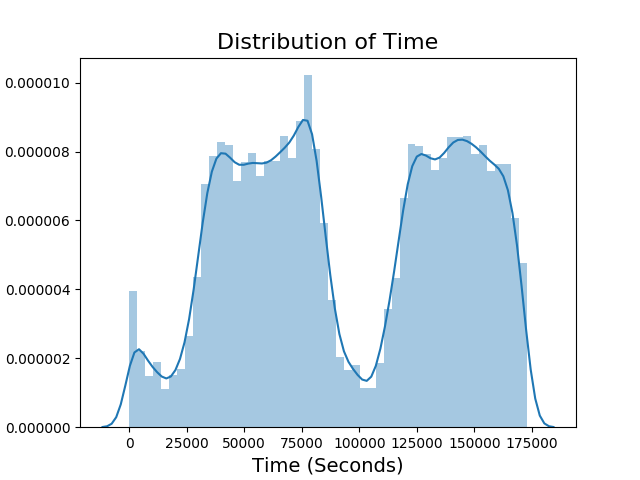
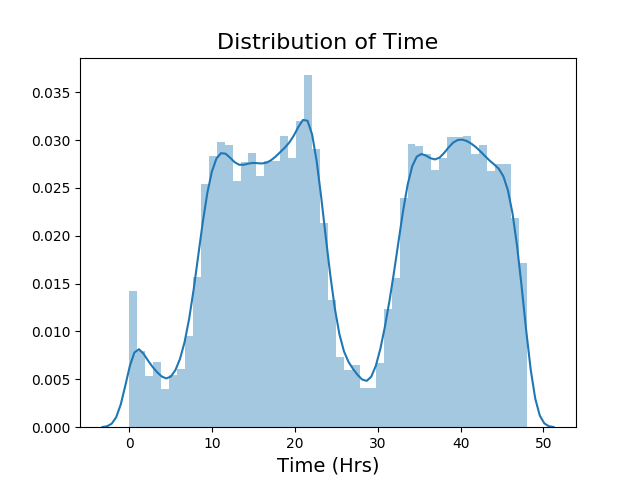
Added comments to file

diff --git a/src/data_visualizer.py b/src/data_visualizer.py
@@ -11,7 +11,7 @@ A program prints and plots different properties of the datasets and process it
 
 """
 
-
+## Getting and reading csv-data files into a pandas dataframe
 path = os.path.dirname(os.path.realpath(__file__))
 file1 = path + "/../data/creditcard_part1.csv"
 file2 = path + "/../data/creditcard_part2.csv"
@@ -20,30 +20,30 @@ df1 = pd.read_csv(file1)
 df2 = pd.read_csv(file2)
 df = pd.concat((df1, df2), ignore_index=True)
 
+## Printing the indices and features
 print(f"Indices: {df.index}")
 print(f"Header: {df.columns.values}\n")
 
+## Printing info about the dataset
 print(df.info(),"\n")
 
+## Looking at the unscaled features Time and Amount
 pd.set_option("precision", 3)
 print( f" {df.loc[:, ['Time', 'Amount']].describe()}\n" )
 
-### Amount has an average credit card transaction around 88 dollars
-### And the biggest transaction of 25691.160 dollarsssssss........
-"""
+## Distribution plot of the Amount data
 sb.distplot(df["Amount"])
 plt.title("Distribution of Amount", size=16)
 plt.xlabel("Amount", size=14)
 plt.show()
 
-
-sb.distplot(df["Time"])
+## Distribution plot of the Time data
+sb.distplot(df["Time"]/(60*60))
 plt.title("Distribution of Time", size=16)
-plt.xlabel("Time (Seconds)", size=14)
+plt.xlabel("Time (Hrs)", size=14)
 plt.show()
-"""
 
-
+## Looking at the class balances
 class_counts = df.Class.value_counts()
 num_fraudulent = class_counts[1]
 num_non_fraudulent = class_counts[0]
@@ -51,54 +51,55 @@ print(f"Fraudulent: {num_fraudulent}")
 print(f"Non-Fraudulent: {num_non_fraudulent}")
 print(f"Ratio: {(num_fraudulent/num_non_fraudulent)*100:.3f}%\n")
 
+## Plotting the class imbalance
 plt.bar(class_counts.index, [num_non_fraudulent, num_fraudulent])
 plt.xticks(class_counts.index, ('Non-fraudulent','Fraudulent'))
 plt.title("Non-Fraudulent & Fraudulent transactions total", size=16)
 plt.ylabel("Amount", size=14)
 plt.show()
 
-
+## Plotting the correlation matrix. (Dataset is already PCA'd)
 sb.heatmap( data=df.corr(), cmap="viridis", annot=False)
 plt.show()
 
-
 ## There are no categories in the dataset, so no need to do one-hot encoding.
+
+## Splitting the dataset into design matrix X and targets y
 X = df.loc[:, df.columns != 'Class'].values
 y = df.loc[:, df.columns == 'Class'].values.ravel()
 
 
-#### StandardScaler is more useful for classification, and Normalizer is more useful for regression.
+## Scaling the data (Most for Time and Amount)
 standard_scaler = StandardScaler()
 X = standard_scaler.fit_transform(X)
 
+
+## Randomized undersampling method
 indices_nonfraud = np.where(y==0)[0]
 indices_fraud = np.where(y==1)[0]
-
 np.random.shuffle(indices_nonfraud)
 indices_nonfraud_under = indices_nonfraud[:num_fraudulent]
 indices_under = np.concatenate( (indices_fraud, indices_nonfraud_under) )
 np.random.shuffle(indices_under)
 
+## Using indices from undersampling method to create new balanced dataset
+X_under = X[indices_under]
+y_under = y[indices_under]
 
-X = X[indices_under]
-y = y[indices_under]
-
+## Looking at the class balance again, now for undersampled data
 plt.bar([0,1], [len(indices_nonfraud_under), len(indices_fraud)])
 plt.xticks(class_counts.index, ('Non-fraudulent','Fraudulent'))
 plt.title("Non-Fraudulent & Fraudulent transactions total", size=16)
 plt.ylabel("Amount", size=14)
 plt.show()
 
-sb.distplot(X[:,-1])
+## New distrubution plots for undersampled data
+sb.distplot(X_under[:,-1])
 plt.title("Distribution of Amount", size=16)
 plt.xlabel("Amount", size=14)
 plt.show()
 
-sb.distplot(X[:,0])
+sb.distplot(X_under[:,0])
 plt.title("Distribution of Time", size=16)
 plt.xlabel("Time (Seconds)", size=14)
 plt.show()
-
-### Train test split
-from sklearn.model_selection import train_test_split
-X_train, X_test, y_train, y_test = train_test_split(X, y, test_size=0.3, random_state=4)

diff --git a/src/neural_network.py b/src/neural_network.py
@@ -62,7 +62,7 @@ def learningrate_nn():
 
 
 def grid_search_nn():
-    X_train, X_test, y_train, y_test = retrieve_data( undersampling=True, ratio=0.01, random_state=3 )
+    X_train, X_test, y_train, y_test = retrieve_data( undersampling=True, ratio=1.0, random_state=3 )
 
     clf = sklearn.neural_network.MLPClassifier(
                                 learning_rate = "adaptive",
@@ -102,7 +102,7 @@ def grid_search_nn():
 
 
 def neuralnet():
-    X_train, X_test, y_train, y_test = retrieve_data( undersampling=True, ratio=1, random_state=3 )
+    X_train, X_test, y_train, y_test = retrieve_data( undersampling=True, ratio=1.0, random_state=3 )
 
     clf = sklearn.neural_network.MLPClassifier(
                                 learning_rate = "adaptive",

diff --git a/src/logistic_regression.py b/src/logistic_regression.py
@@ -12,7 +12,7 @@ import numpy as np
 
 def grid_search_logreg():
 
-    X_train, X_test, y_train, y_test = retrieve_data( undersampling=True, ratio=0.01, random_state=3 )
+    X_train, X_test, y_train, y_test = retrieve_data( undersampling=True, ratio=1.0, random_state=3 )
     X = np.concatenate((X_train, X_test), axis=0)
     y = np.append(y_train, y_test)
 
@@ -42,7 +42,7 @@ def grid_search_logreg():
 
 
 def logreg():
-    X_train, X_test, y_train, y_test = retrieve_data( undersampling=True, ratio=1, random_state=3 )
+    X_train, X_test, y_train, y_test = retrieve_data( undersampling=True, ratio=1.0, random_state=3 )
     X = np.concatenate((X_train, X_test), axis=0)
     y = np.append(y_train, y_test)
 

diff --git a/src/random_forest.py b/src/random_forest.py
@@ -10,7 +10,7 @@ import seaborn as sb
 import numpy as np
 
 def grid_search_randomforest():
-    X_train, X_test, y_train, y_test = retrieve_data( undersampling=True, ratio=0.01, random_state=None)
+    X_train, X_test, y_train, y_test = retrieve_data( undersampling=True, ratio=1.0, random_state=None)
 
     ### Random Forest Classifier
     clf = RandomForestClassifier(random_state=4)

diff --git a/src/decision_tree.py b/src/decision_tree.py
@@ -56,7 +56,7 @@ def ratio_decisiontree():
 
 def grid_search_decisiontree():
 
-    X_train, X_test, y_train, y_test = retrieve_data( undersampling=True, ratio=0.01, random_state=2 )
+    X_train, X_test, y_train, y_test = retrieve_data( undersampling=True, ratio=1.0, random_state=2 )
 
     clf = tree.DecisionTreeClassifier()
 
